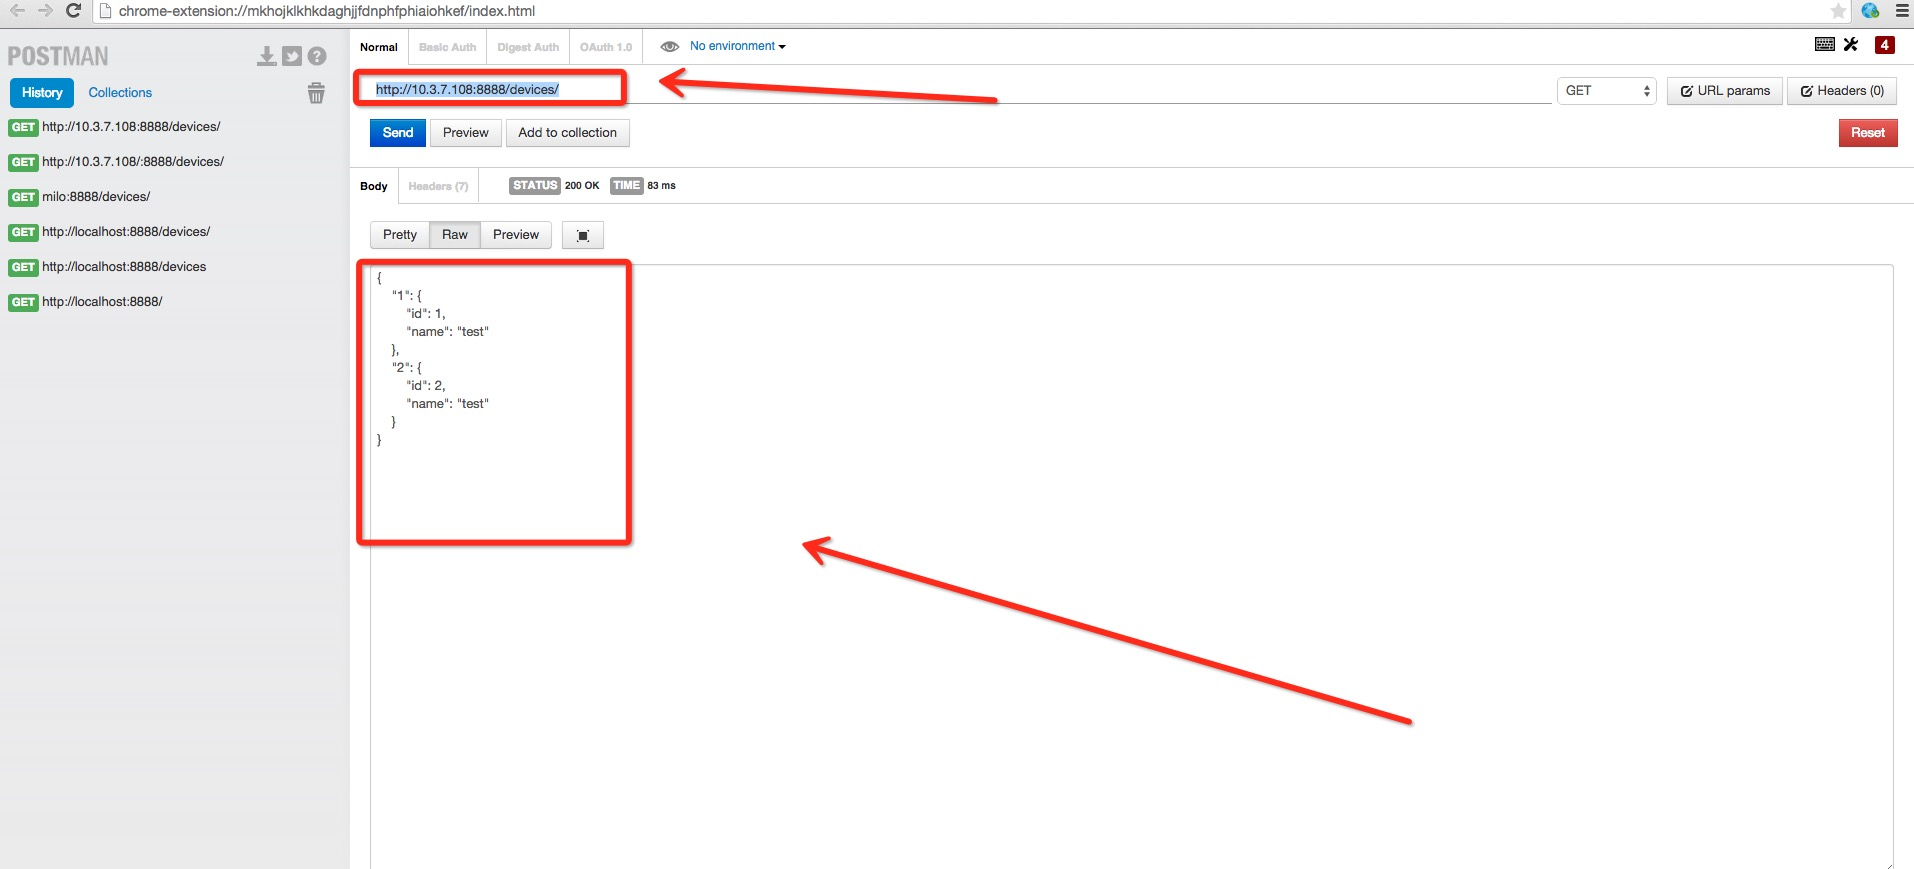
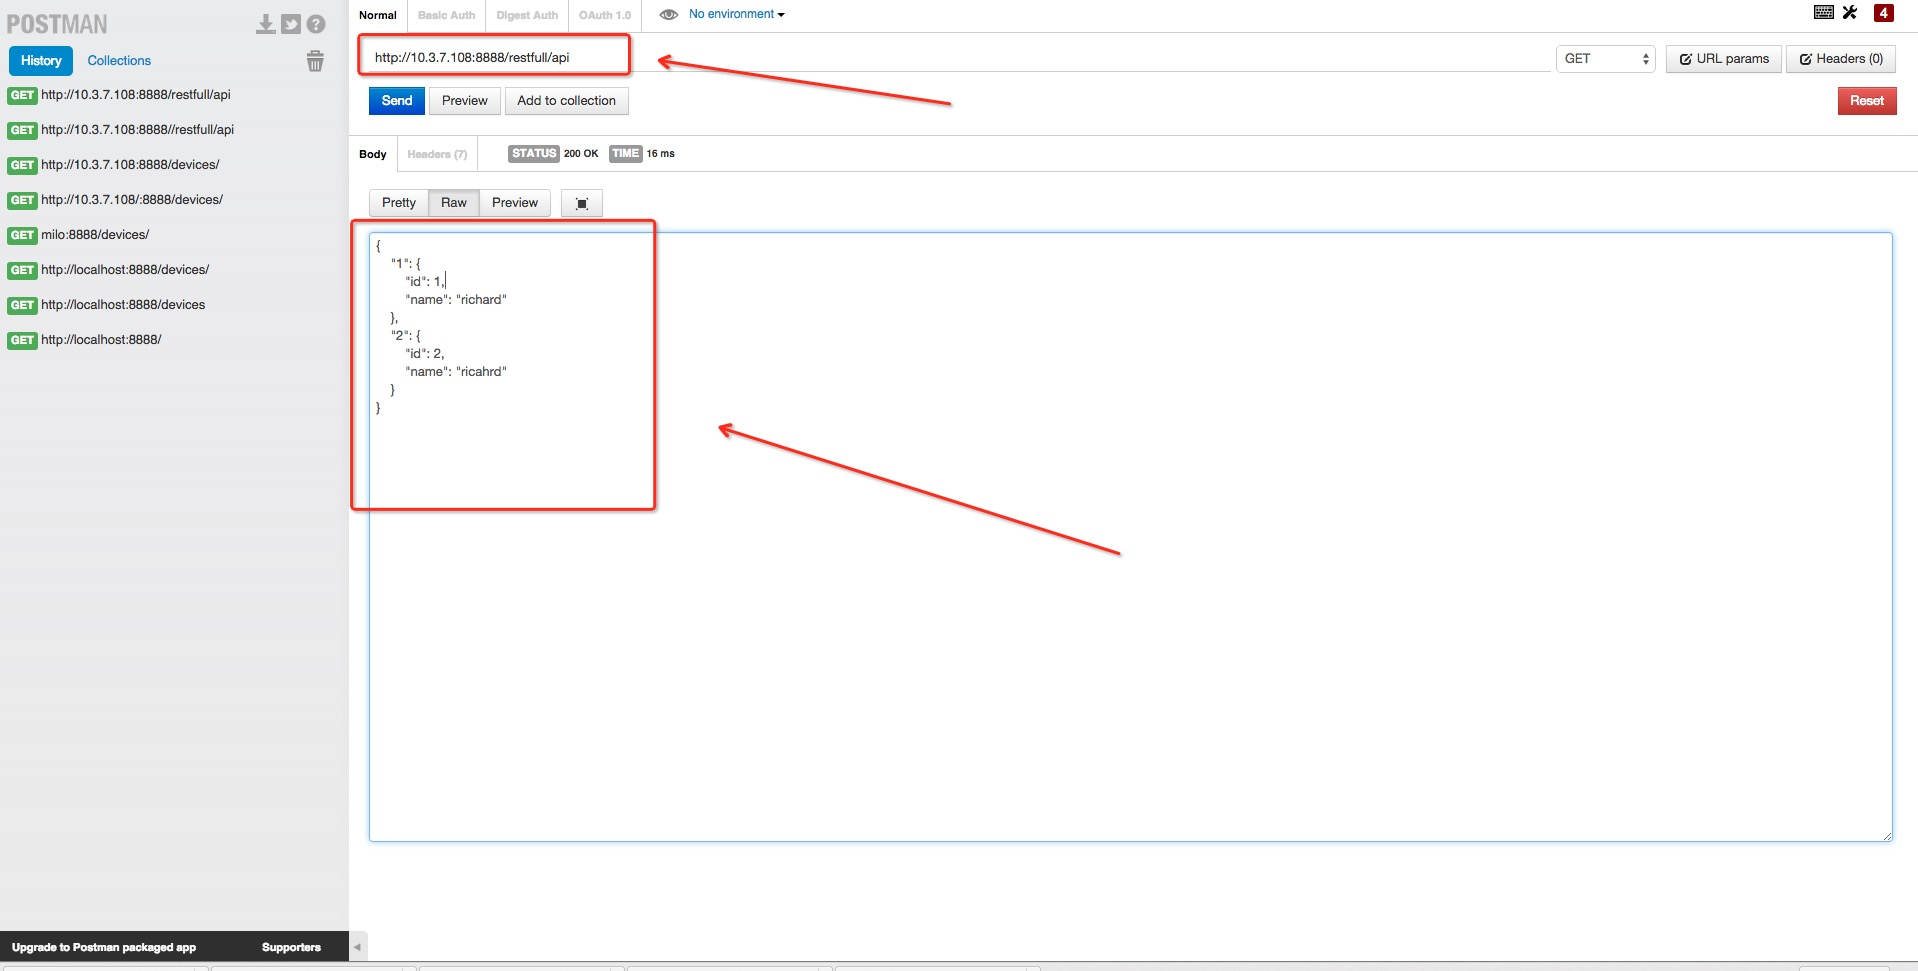
submit

diff --git a/javascript/restful/rest.js b/javascript/restful/rest.js
@@ -4,13 +4,13 @@
 var express = require('express') //加载模块
 var app = express() //实例化之
 
-var map = {"1": {id: 1, name: "test"}, "2": {id: 2, name: "test"}} //定义一个集合资源，key为字符串完全是模仿java MAP<T,E>，否则谁会这么去写个hash啊！
+var map = {"1": {id: 1, name: "richard"}, "2": {id: 2, name: "ricahrd"}} //定义一个集合资源，key为字符串完全是模仿java MAP<T,E>，否则谁会这么去写个hash啊！
 
-app.get('/devices', function (req, res) { //Restful Get方法,查找整个集合资源
+app.get('/restfull/api', function (req, res) { //Restful Get方法,查找整个集合资源
     res.set({'Content-Type': 'text/json', 'Encodeing': 'utf8'});
     res.send(map)
 })
-app.get('/devices/:id', function (req, res) { //Restful Get方法,查找一个单一资源
+app.get('/restfull/api/:id', function (req, res) { //Restful Get方法,查找一个单一资源
     res.set({'Content-Type': 'text/json', 'Encodeing': 'utf8'});
     res.send(map[req.param('id')])
     //console.log(req.param('id'))

diff --git a/javascript/restful/README.md b/javascript/restful/README.md
@@ -7,30 +7,31 @@ npm install express
 ```
 *安装好了后，创建文件rest.js 添加如下代码
 ```js
-var express = require('express') //加载模块
-var app = express() //实例化
 
-var map = {"1": {id: 1, name: "test"}, "2": {id: 2, name: "test"}} //定义一个集合资源，key为字符串完全是模仿java MAP<T,E>，否则谁会这么去写个hash啊！
+var map = {"1": {id: 1, name: "richard"}, "2": {id: 2, name: "ricahrd"}} //返回json数据
 
-app.get('/devices', function (req, res) { //Restful Get方法,查找整个集合资源
+app.get('/restfull/api', function (req, res) { //提供api '/restfull/api' Get方法,查找整资源
     res.set({'Content-Type': 'text/json', 'Encodeing': 'utf8'});
     res.send(map)
 })
-app.get('/devices/:id', function (req, res) { //Restful Get方法,查找一个单一资源
+app.get('/restfull/api/:id', function (req, res) { //提供 ‘/restfull/api’ Get方法,查找一个单一资源
     res.set({'Content-Type': 'text/json', 'Encodeing': 'utf8'});
     res.send(map[req.param('id')])
     //console.log(req.param('id'))
 })
 
-app.listen(8888);
+app.listen(8888);//最后，监听8888端口
 ```
 
-
+启动nodejs
 * 执行命令
 
 ```sh
 node rest.js
 ```
+
+即可完成restfull
+
 ###如下应该如下图
 ![alt](https://raw.githubusercontent.com/richardgong1987/openMaterial/master/javascript/restful/get.png)
 
